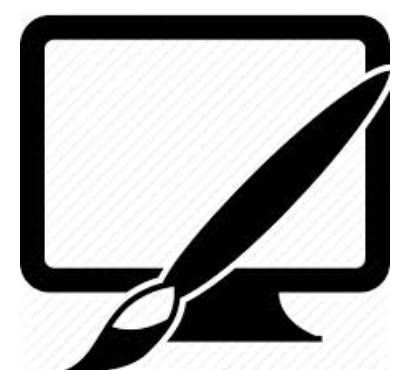
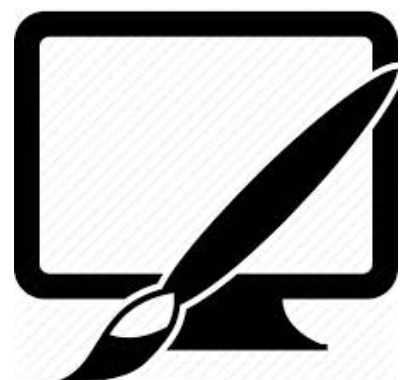
symbols updated

diff --git a/index.html b/index.html
@@ -187,10 +187,7 @@
     
                 </div>  <!-- homework -->
 
-                <div>
-                        <h3>Graphic Art</h3>
-
-                </div>
+                
                 <div id="projects">
                     <img class="symbols" src="assets/images/symbols/projects-symbol.png" alt="projects image">
                     <h3>PROJECTS</h3>
@@ -226,6 +223,11 @@
 
                 </div>  <!-- projects -->
 
+                <div>
+                        <img class="symbols" src="assets/images/symbols/graphic-art.png" alt="graphic-art image">
+                        <h3>Graphic Art</h3>
+
+                </div> <!-- graphic art -->
             
                 
 
